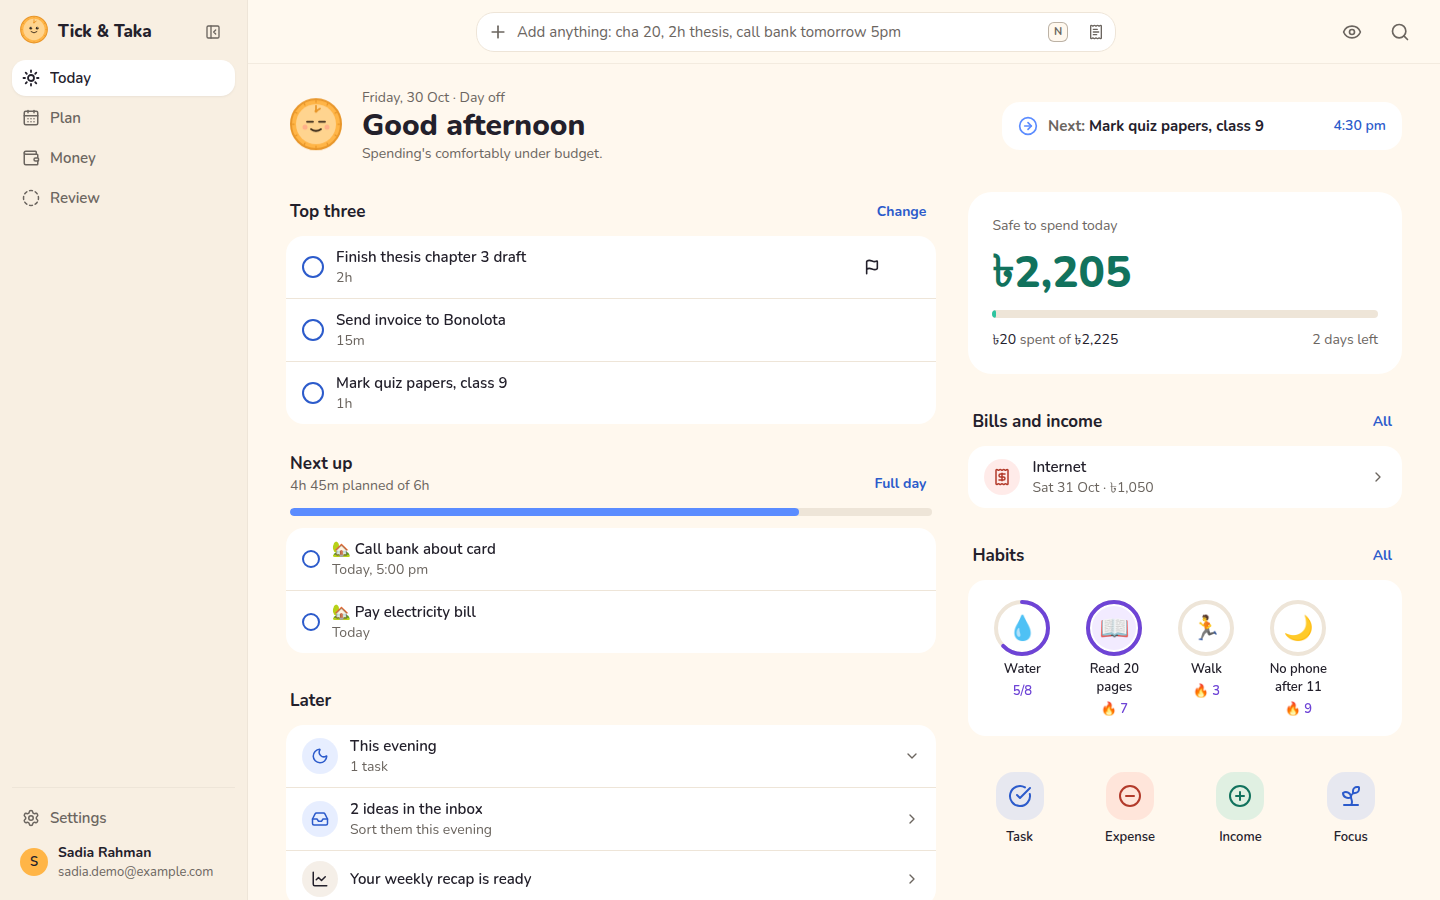
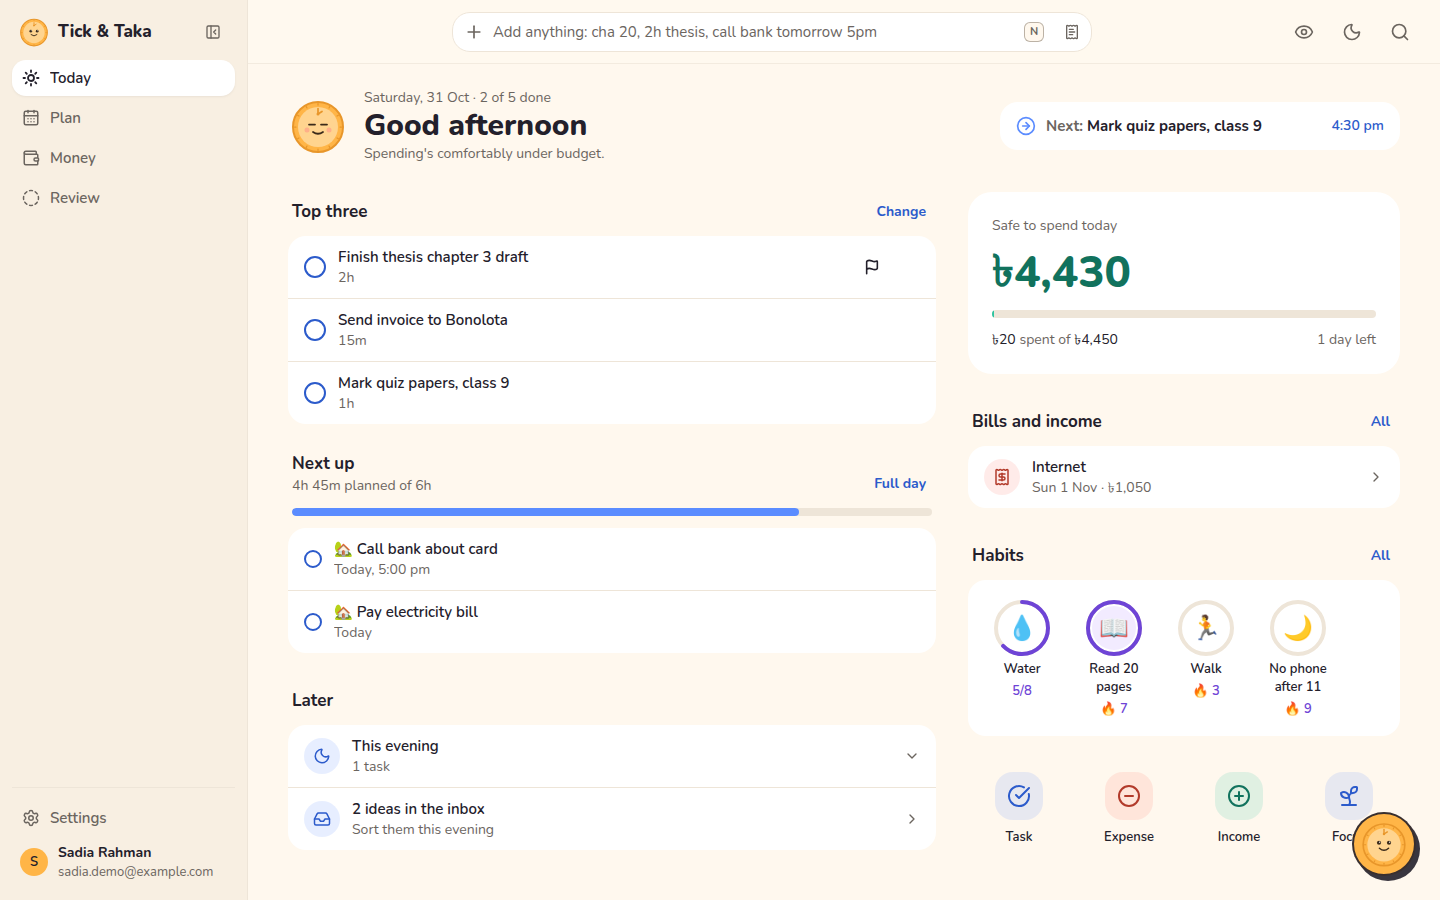
docs: refresh the web app's README section and screenshots
New screenshots of Today (light and dark), Tiki's floating chat, the week,
money, reports, settings, the sign-in page and the public home page; the
section now describes the live site at tick.bipulhf.dev, the theme button
and the separate-host deploy.

diff --git a/README.md b/README.md
@@ -344,6 +344,15 @@ only from the site and Google's sign-in (the session token lives in the browser)
 every unknown path under `/app/` to `index.html`, and caches the hashed files for good.
 Update with `git pull`, the build and the `rsync` again.
 
+### On separate hosts (tick.bipulhf.dev)
+
+The running copy keeps the app and its public pages on `tick.bipulhf.dev` and the API on
+`api.tick.bipulhf.dev`. The API lists the app's origin in `WEB_ORIGINS` (CORS) and runs
+with `TRUST_PROXY=true`; the app is built with `VITE_API_URL=https://api.tick.bipulhf.dev`
+in `apps/web/.env.production`. `deploy/nginx-tick-bipulhf.conf` is that Nginx site (both
+hosts, certbot certificates), and on the server `deploy/update-tick-bipulhf.sh` pulls,
+builds the app, restarts the API under pm2 and installs and reloads the Nginx site.
+
 ### Backups
 
 Every night at 3 am in each user's time zone, the API writes a `VACUUM INTO` copy of that
@@ -390,21 +399,28 @@ blocked in the build, so the phone can't grant them even by accident.
 
 ## Use it on the web
 
-`https://tick.mehedismathacademy.com/app/` signs in with the same Google account and
-shows the same data. Everything the phone does is there, arranged for a laptop: a
-sidebar, Today in two columns, edit panels that slide in beside the list, Tiki's chat as
-a column next to the content, and the keyboard (`N` to add anything, `Ctrl K` to go
-anywhere or search, `G` then a letter to jump, `J`/`K`/`X` in lists, `?` for the rest).
-It also works in a phone browser, with the bottom tab bar.
+**https://tick.bipulhf.dev** is the public home page; the app itself is at
+[`/app/`](https://tick.bipulhf.dev/app/) and signs in with the same Google account, with
+the same data. Everything the phone does is there, arranged for a laptop: a sidebar,
+views that use the full width, Today in two columns, edit panels that slide in beside the
+list, Tiki's chat floating at the bottom right of every page, and the keyboard (`N` to
+add anything, `Ctrl K` to go anywhere or search, `G` then a letter to jump, `J`/`K`/`X`
+in lists, `?` for the rest). It is light by default; the sun/moon button in the top bar
+(or `Shift D`) switches to dark, and the public pages share the choice. It also works in
+a phone browser, with the bottom tab bar.
 
-|                                    Today                                    |                                   Week                                    |
-| :-------------------------------------------------------------------------: | :-----------------------------------------------------------------------: |
-|  <img src="docs/screenshots/web-today.png" width="420" alt="Today on the web" />  |  <img src="docs/screenshots/web-week.png" width="420" alt="Week planner on the web" />  |
-|                                  **Money**                                  |                                **Reports**                                |
-|  <img src="docs/screenshots/web-money.png" width="420" alt="Money on the web" />  | <img src="docs/screenshots/web-reports.png" width="420" alt="Reports on the web" /> |
+|                                        Today                                         |                                    Today, dark                                     |
+| :----------------------------------------------------------------------------------: | :--------------------------------------------------------------------------------: |
+|       <img src="docs/screenshots/web-today.png" width="420" alt="Today on the web" />       | <img src="docs/screenshots/web-today-dark.png" width="420" alt="Today in dark mode" /> |
+|                                    **Tiki's chat**                                    |                                    **Week**                                     |
+| <img src="docs/screenshots/web-chat.png" width="420" alt="Tiki's chat floating over Today" /> |   <img src="docs/screenshots/web-week.png" width="420" alt="Week planner" />    |
+|                                      **Money**                                       |                                   **Reports**                                   |
+|       <img src="docs/screenshots/web-money.png" width="420" alt="Money overview" />        |    <img src="docs/screenshots/web-reports.png" width="420" alt="Reports" />     |
+|                                     **Settings**                                     |                                   **Sign in**                                   |
+|  <img src="docs/screenshots/web-settings.png" width="420" alt="Settings, one section at a time" />  |  <img src="docs/screenshots/web-login.png" width="420" alt="Sign-in page" />  |
 
 <p align="center">
-  <img src="docs/screenshots/web-today-dark.png" width="640" alt="Today on the web in dark mode" />
+  <img src="docs/screenshots/web-home.png" width="640" alt="The public home page" />
 </p>
 
 What differs from the phone:
@@ -412,7 +428,8 @@ What differs from the phone:
 - **Online only.** Nothing is cached or queued: when the connection drops, a banner says
   so and saving waits for it.
 - **Reminders** come as browser notifications, only while a tab is open and after you
-  turn them on in Settings › Notifications.
+  turn them on in Settings › Reminders.
+- **Light or dark** is a choice of each browser, not synced with the phone.
 - **No fingerprint lock** and no home-screen widget; the app can be installed from the
   browser, with shortcuts for a new task, a new expense and Focus. Hide amounts works
   the same.
